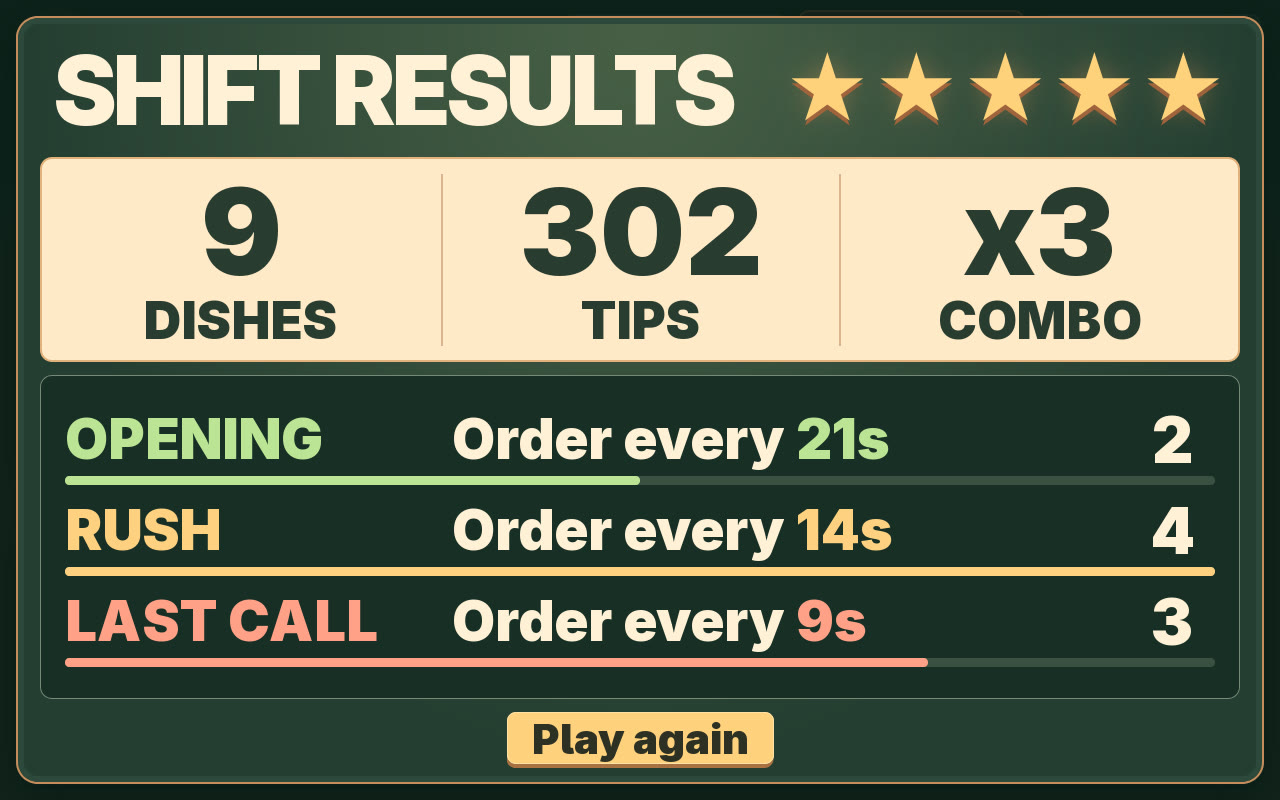
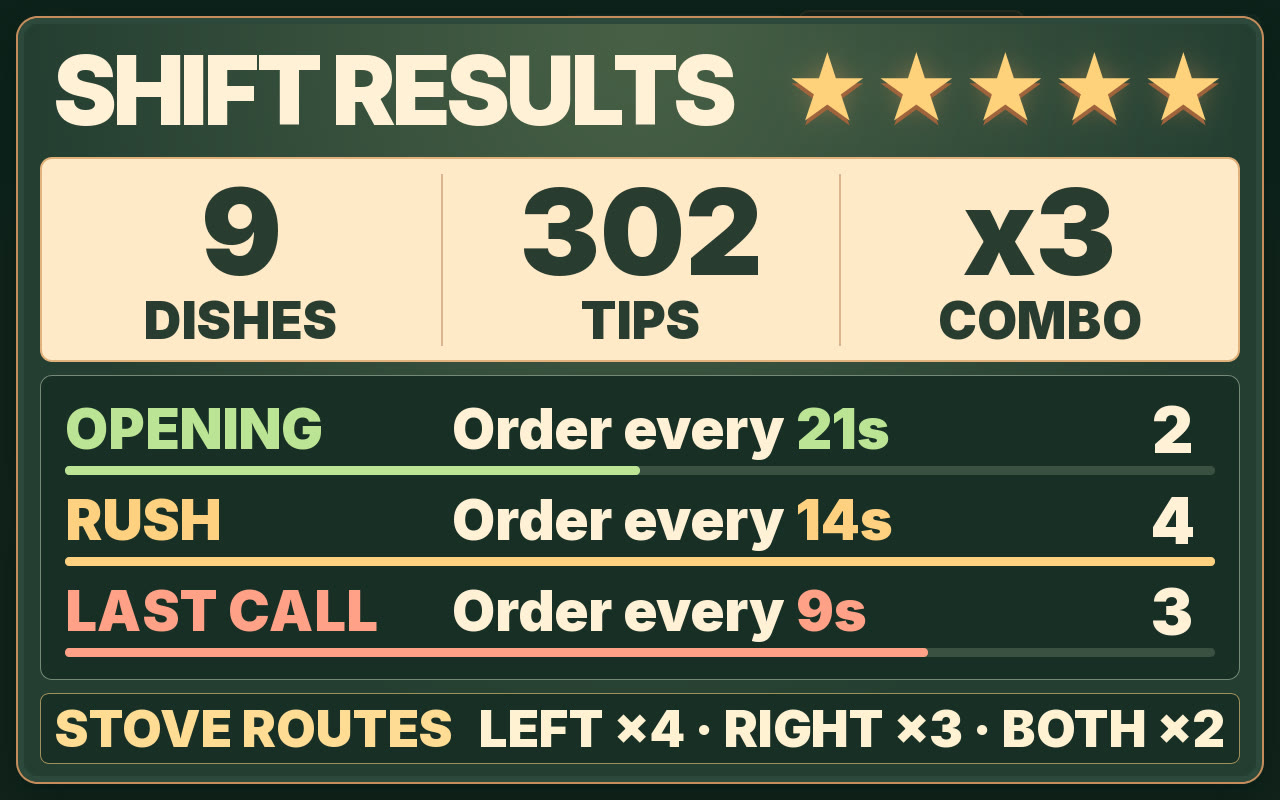
v34: track stove routes per shift and show them in results

Changed region(s): [[0.0312, 0.5, 0.9688, 0.9688]]

diff --git a/game/src/stations.js b/game/src/stations.js
@@ -9,11 +9,19 @@ function assembleRecipeLayers(state) {
   if (!choices.length) return 'That layer does not fit. Check the ticket order.';
   const completed = choices.find(recipe => recipe.layers.length === layers.length);
   if (completed && state.queuedPlate) return 'Serve a dish at the window to free the tray.';
+  const { burnerIndex } = state.cook.hand;
+  if (burnerIndex !== undefined) state.layerBurners.add(burnerIndex);
   state.layers = completed ? [] : layers;
   state.cook.hand = null;
   if (completed) {
-    if (state.ready) state.queuedPlate = completed;
-    else state.ready = completed;
+    if (state.ready) {
+      state.queuedPlate = completed;
+      state.queuedBurners = state.layerBurners;
+    } else {
+      state.ready = completed;
+      state.readyBurners = state.layerBurners;
+    }
+    state.layerBurners = new Set();
   }
   state.platePop = state.elapsed;
   burst(state, completed && !state.queuedPlate ? 1039 : 679, 660, '#ffce72', completed ? 18 : 8);
@@ -36,10 +44,16 @@ export function useStation(state, station) {
   if (station.id === 'plate') return assembleRecipeLayers(state);
   if (station.id === 'pass') return serveReadyPlate(state);
   if (state.cook.hand) state.cook.hand = null;
-  else if (state.layers.length) state.layers = [];
-  else if (state.queuedPlate) state.queuedPlate = null;
-  else if (state.ready) state.ready = null;
-  else return 'Use the sink to clear your hands or an unfinished dish.';
+  else if (state.layers.length) {
+    state.layers = [];
+    state.layerBurners.clear();
+  } else if (state.queuedPlate) {
+    state.queuedPlate = null;
+    state.queuedBurners = null;
+  } else if (state.ready) {
+    state.ready = null;
+    state.readyBurners = null;
+  } else return 'Use the sink to clear your hands or an unfinished dish.';
   state.sound('tick');
   return 'Counter cleared.';
 }
@@ -181,7 +195,7 @@ function useStove(state, index) {
   }
   const phase = stovePhase(pot);
   if (!cook.hand && (phase === 'cooked' || phase === 'burnt')) {
-    cook.hand = { id: pot.food.id, stage: phase === 'cooked' ? 'ready' : 'burnt' };
+    cook.hand = { id: pot.food.id, stage: phase === 'cooked' ? 'ready' : 'burnt', burnerIndex: index };
     pot.food = null;
     state.sound('tick');
     return phase === 'burnt' ? 'Burnt food goes in the sink.' : undefined;
@@ -197,11 +211,18 @@ const burnSeconds = 7;
 function serveReadyPlate(state) {
   if (!state.ready) return 'Finish a dish at the plating counter first.';
   const recipe = state.ready;
+  const usedBurners = state.readyBurners;
   const tipsBefore = state.tips;
   const service = scoreServe(state, recipe);
   state.ready = state.queuedPlate;
+  state.readyBurners = state.queuedBurners;
   state.queuedPlate = null;
+  state.queuedBurners = null;
   if (!service) return `No ticket for ${recipe.name}. The dish was cleared.`;
+  if (usedBurners?.size) {
+    const route = usedBurners.size === burners.length ? 'both' : usedBurners.has(0) ? 'left' : 'right';
+    state.servedByRoute[route]++;
+  }
   state.servePop = {
     at: state.elapsed,
     recipe,

diff --git a/game/src/menu.js b/game/src/menu.js
@@ -102,6 +102,8 @@ function resultsScreen(state) {
     </ul>
   </section>`;
   const multiplier = comboMultiplier(state.bestCombo);
+  const { left, right, both } = state.servedByRoute;
+  const routeSummary = `<p class="route-summary">Stove routes <strong>Left ×${left} · Right ×${right} · Both ×${both}</strong></p>`;
   if (showcase) {
     return `<div class="sheet results-sheet results-showcase">
       <header><h1>Shift Results</h1>${rating}</header>
@@ -111,7 +113,7 @@ function resultsScreen(state) {
         <div><strong>x${multiplier}</strong><span>Combo</span></div>
       </div>
       ${waveChart}
-      <button class="primary" data-command="start">Play again</button>
+      ${routeSummary}
     </div>`;
   }
   const ranks = ['Quiet closing', 'First plate out', 'Finding your feet', 'Dinner delivered', 'Market favorite', 'Night market legend'];
@@ -130,6 +132,7 @@ function resultsScreen(state) {
       <div><strong>${state.bestCombo}</strong><span>Best combo</span></div>
       <div><strong>×${multiplier}</strong><span>Best multiplier</span></div>
     </div>
+    ${routeSummary}
     <p class="receipt-details"><b>Coins earned</b> ${state.coins} <span>◆</span> <b>Expired tickets</b> ${state.missed}</p>
     <button class="primary" data-command="start">Open again <kbd>↵</kbd></button>
   </div>`;

diff --git a/game/ui.css b/game/ui.css
@@ -345,7 +345,20 @@ button:focus-visible { outline: 3px solid #ffa86e; outline-offset: 5px; }
 .results-showcase .wave-name { text-transform: uppercase; }
 .results-showcase .wave-track { height: 9px; }
 .results-showcase .wave-chart strong { font-size: 64px; text-align: center; }
-.results-showcase .primary { justify-self: center; padding: 4px 24px; font-size: 42px; line-height: 1; }
+.results-sheet .route-summary {
+  padding: 7px 12px;
+  border: 1px solid #a2915d;
+  border-radius: 9px;
+  background: #182f26;
+  color: #ffdb95;
+  font-size: 40px;
+  font-weight: 900;
+  line-height: 1.08;
+  text-transform: uppercase;
+}
+.route-summary strong { margin-left: .3em; color: #fff1d3; }
+.results-sheet:not(.results-showcase) .route-summary { margin-top: 16px; }
+.results-showcase .route-summary { font-size: 51px; }
 .pause-sheet { text-align: center; width: 620px; padding: 48px 34px; }
 .pause-sheet .primary, .pause-sheet .quiet { margin: 27px 5px 0; }
 .visually-hidden {

diff --git a/game/src/game.js b/game/src/game.js
@@ -170,12 +170,14 @@ function createShift(seed, sound, announce) {
   const state = {
     elapsed: 0, screen: 'title', orders: [], nextTicket: 1, nextArrival: 14,
     coins: 0, tips: 0, served: 0, servedByWave: serviceWaves.map(() => 0), missed: 0, combo: 0, bestCombo: 0,
+    servedByRoute: { left: 0, right: 0, both: 0 },
     lastServedRecipe: null,
     focusedNumber: null, showRoute: true,
     cook: { x: 198, y: 419, facing: 1, moving: false, hand: null },
     board: { food: null, cuts: 0, mark: -10 },
     pots: Array.from({ length: 2 }, () => ({ food: null, age: 0 })),
     layers: [], ready: null, queuedPlate: null, platePop: -10, servePop: null, particles: [], target: null, hover: null,
+    layerBurners: new Set(), readyBurners: null, queuedBurners: null,
     mouseChop: false, notice: '', noticeUntil: 0, staged: false,
     random: randomSequence(seed), visualRandom: randomSequence(seed + 89), sound, announce,
   };

diff --git a/game/src/shots.js b/game/src/shots.js
@@ -60,6 +60,7 @@ export function stageScreenshot(state, scene) {
     state.elapsed = shiftLength;
     state.served = 9;
     state.servedByWave = [2, 4, 3];
+    state.servedByRoute = { left: 4, right: 3, both: 2 };
     state.coins = 698;
     state.tips = 302;
     state.bestCombo = 6;
